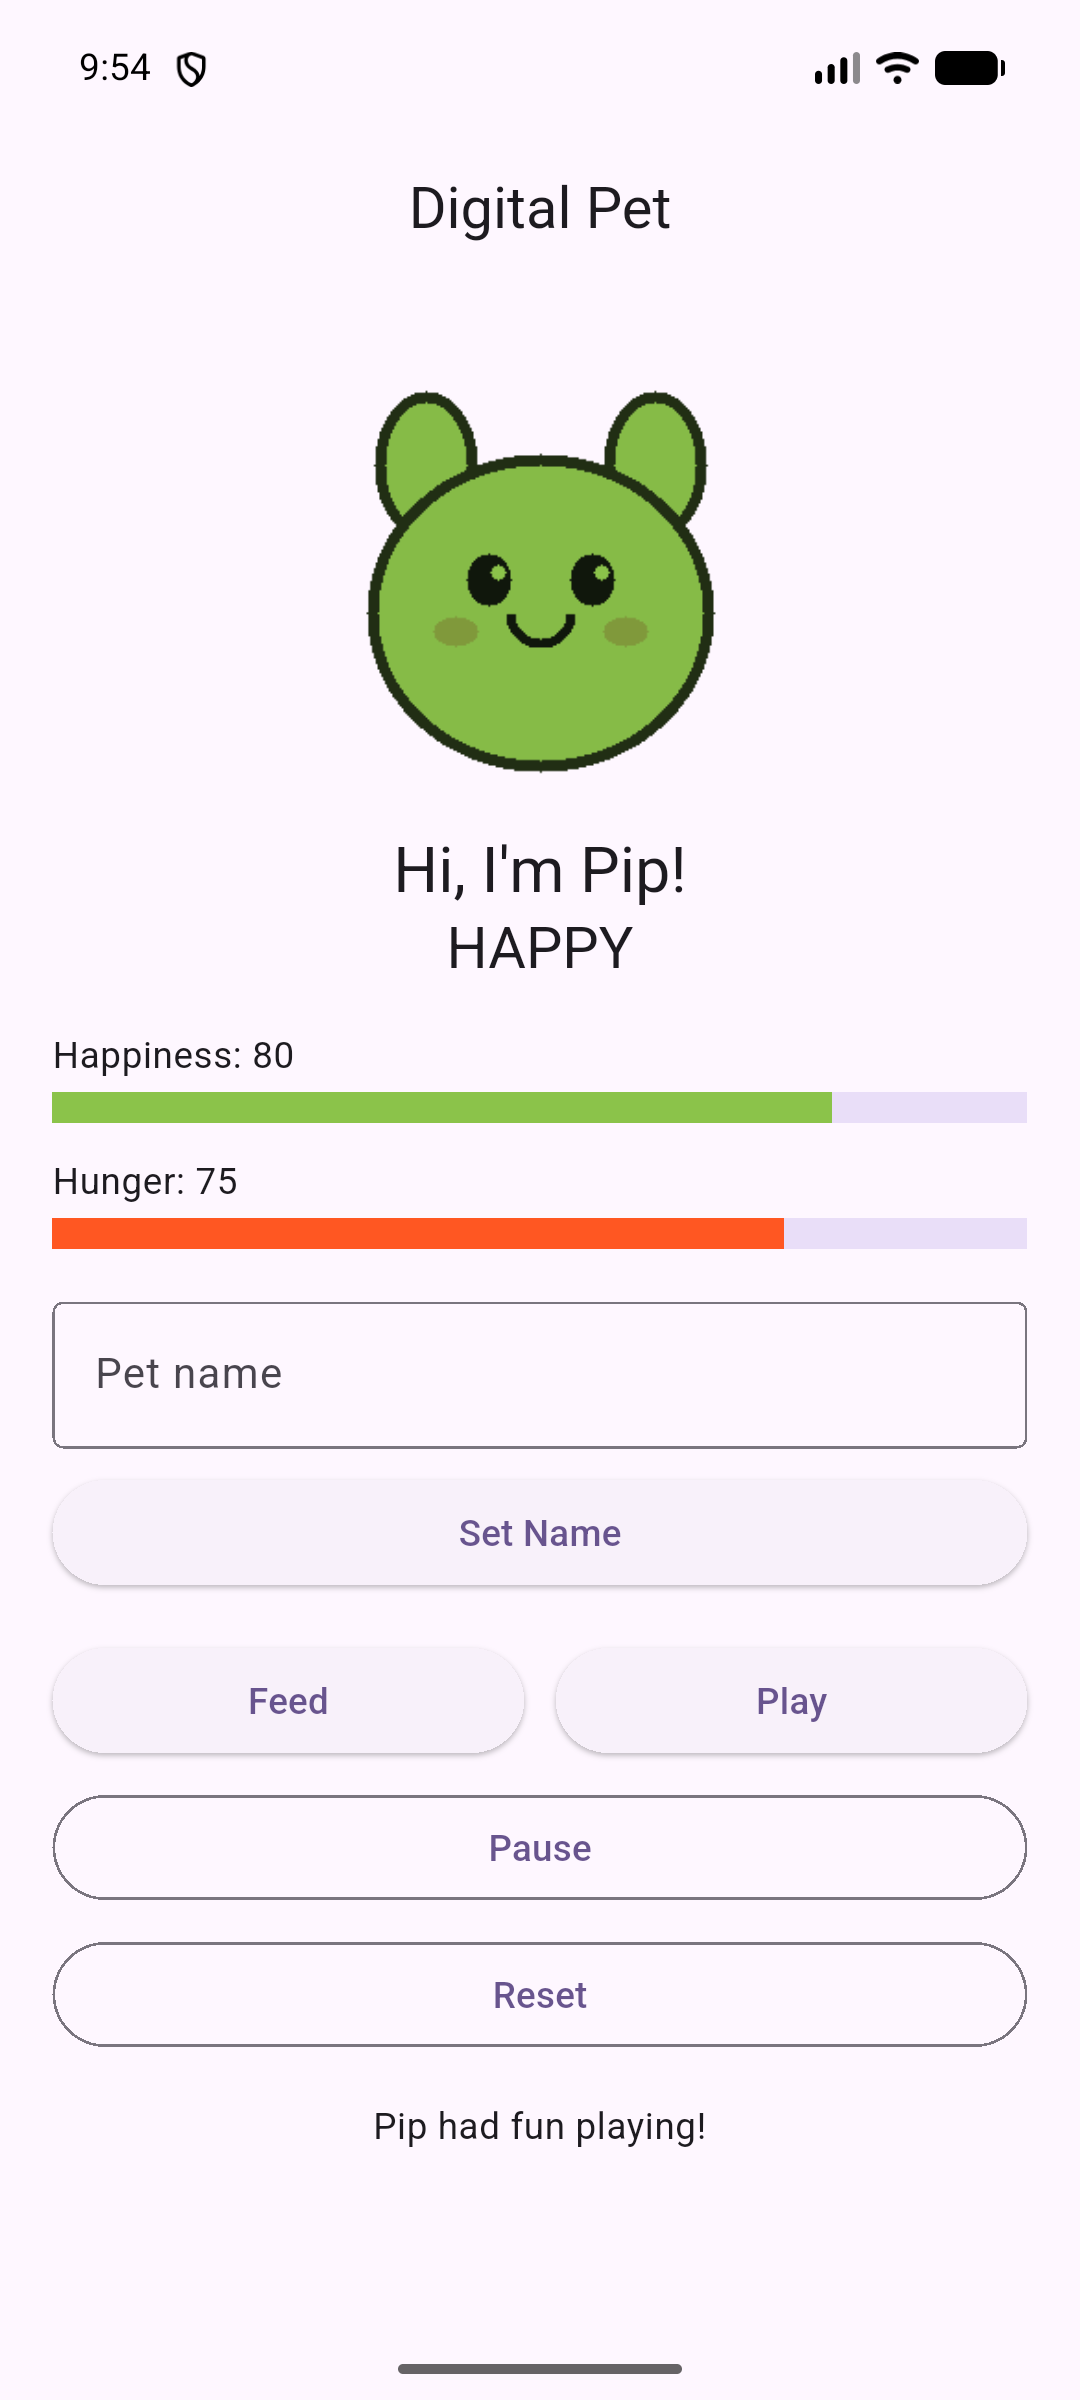
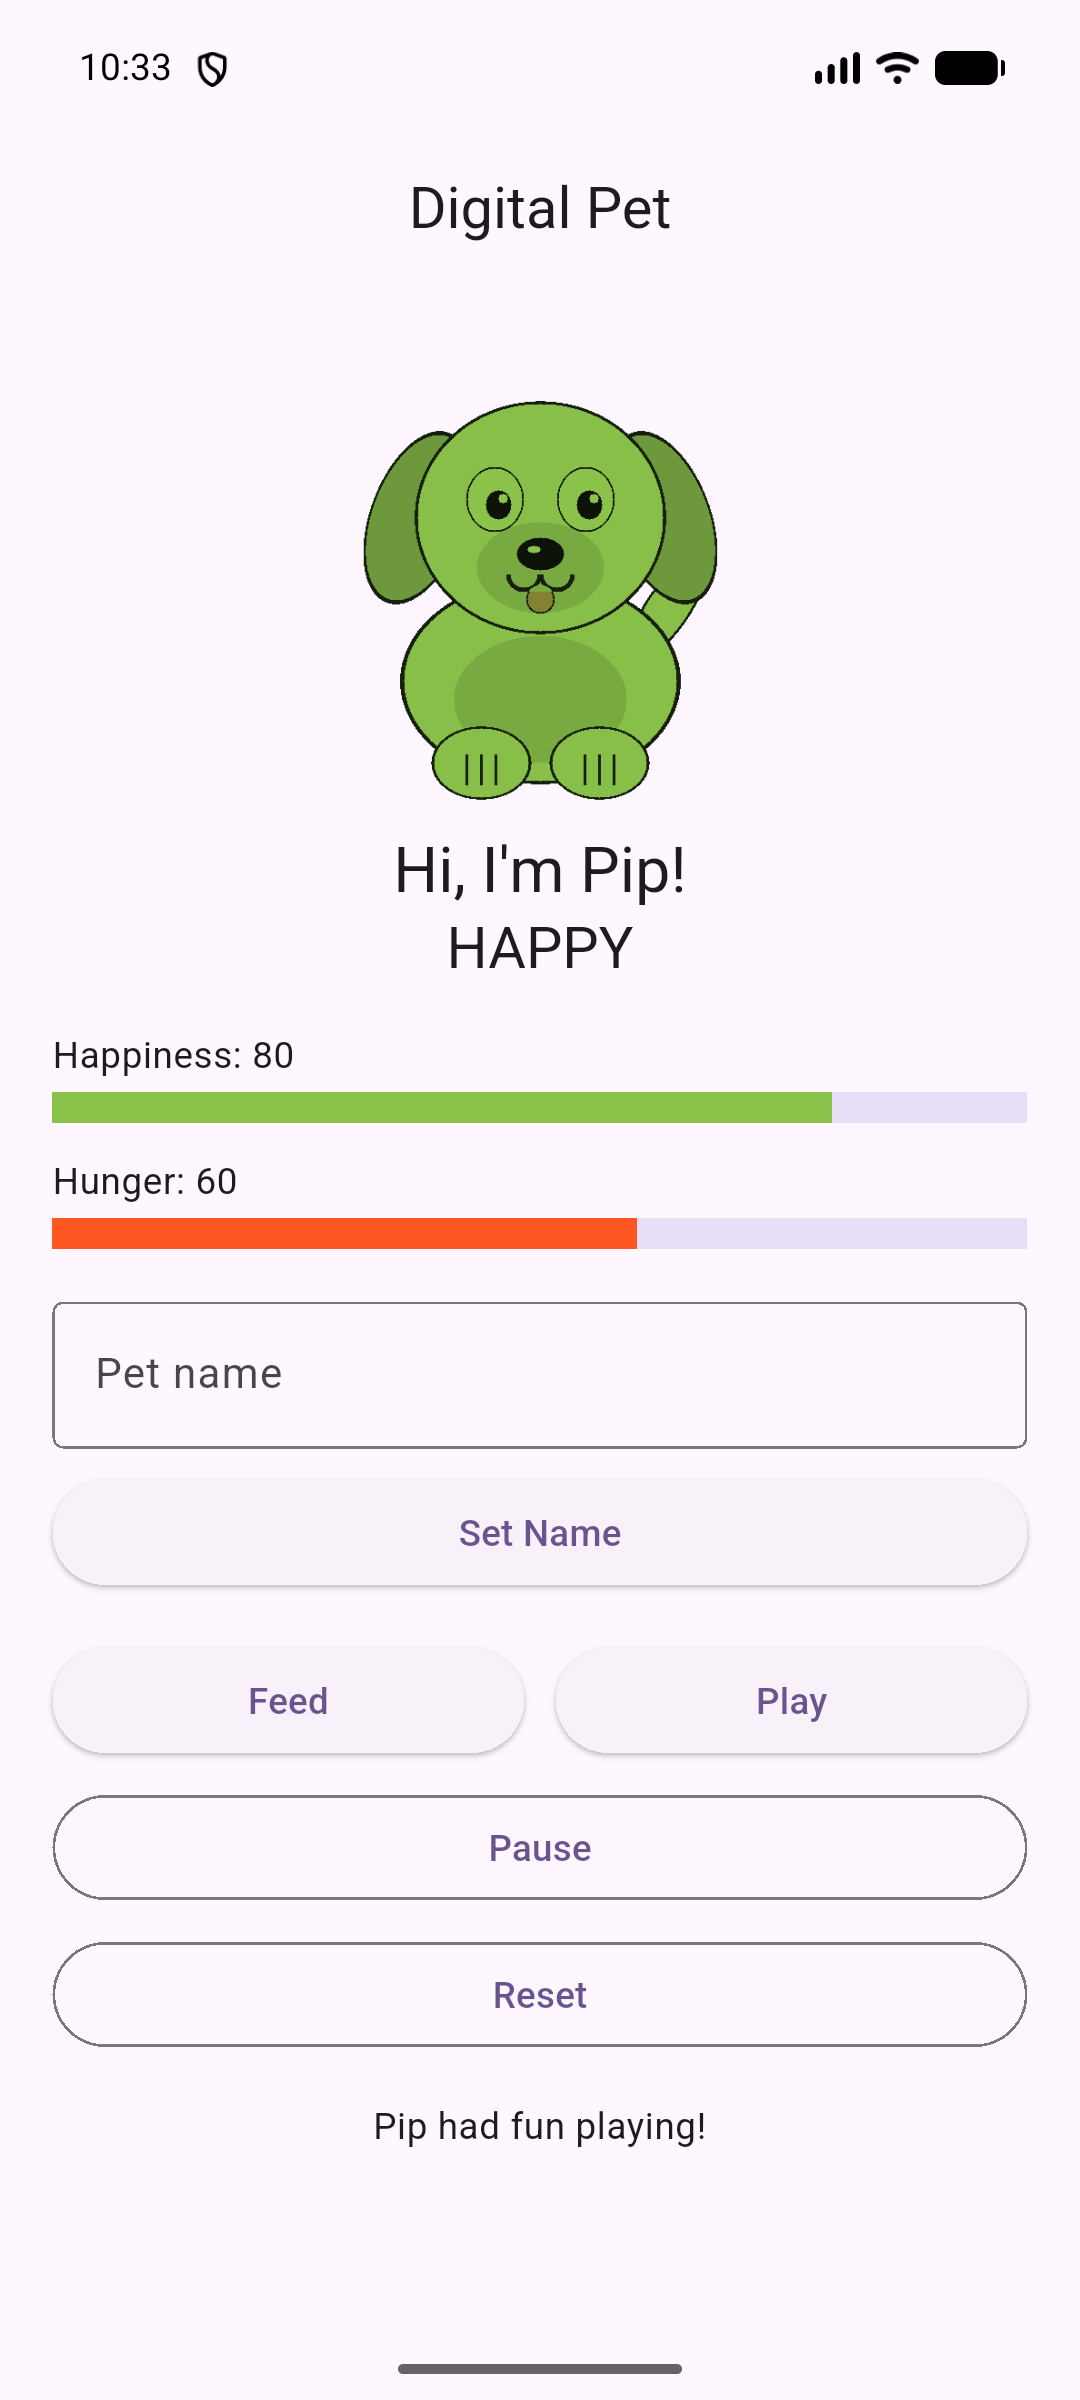
Replace pet image with an original white-fur dog for clean tinting

diff --git a/README.md b/README.md
@@ -80,7 +80,7 @@ flutter test
 
 ## Asset attribution
 
-`assets/pet.png` is an original image made for this project. It is drawn in light gray and white so the `BlendMode.modulate` tint shows clearly.
+`assets/pet.png` is an original cartoon dog made for this project, so it needs no outside attribution. It has white fur, light-gray ears, and a transparent background so the `BlendMode.modulate` tint shows clearly.
 
 ## Git / PR evidence
 
